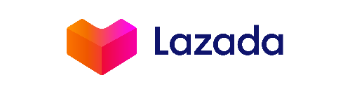
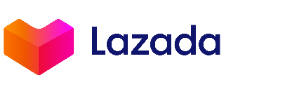
Fix

Changed region(s): [[0.0, 0.1915, 0.8362, 0.8085]]

diff --git a/sites/all/themes/flexitol/css/style.css b/sites/all/themes/flexitol/css/style.css
@@ -6932,7 +6932,7 @@ div#admin-toolbar div.admin-tab, div#admin-toolbar div.admin-tab span, div#admin
       .page-node.node-type-product .group-buttons #online-resellers .group-buyonline-group .field-name-field-pharmacy-direct {
         background-image: url("/sites/all/themes/flexitol/images/online-retailers/pharmacy-direct-au.png?v=2"); }
       .page-node.node-type-product .group-buttons #online-resellers .group-buyonline-group .field-name-field-lazada {
-        background-image: url("/sites/all/themes/flexitol/images/online-retailers/lazada.png?v=3"); }
+        background-image: url("/sites/all/themes/flexitol/images/online-retailers/lazada.png?v=4"); }
       .page-node.node-type-product .group-buttons #online-resellers .group-buyonline-group .field-name-field--shopee {
         background-image: url("/sites/all/themes/flexitol/images/online-retailers/shopee.png?v=2"); }
       .page-node.node-type-product .group-buttons #online-resellers .group-buyonline-group .field-name-field-watsons {

diff --git a/sites/all/themes/flexitol/bootstrap-sass/flexitol/product.scss b/sites/all/themes/flexitol/bootstrap-sass/flexitol/product.scss
@@ -276,7 +276,7 @@ $retailer_images: '/sites/all/themes/flexitol/images/online-retailers/';
                     background-image: url("#{$retailer_images}pharmacy-direct-au.png?v=2");
                 }
                 .field-name-field-lazada {
-                    background-image: url("#{$retailer_images}lazada.png?v=3");
+                    background-image: url("#{$retailer_images}lazada.png?v=4");
                 }
                 .field-name-field--shopee {
                     background-image: url("#{$retailer_images}shopee.png?v=2");
